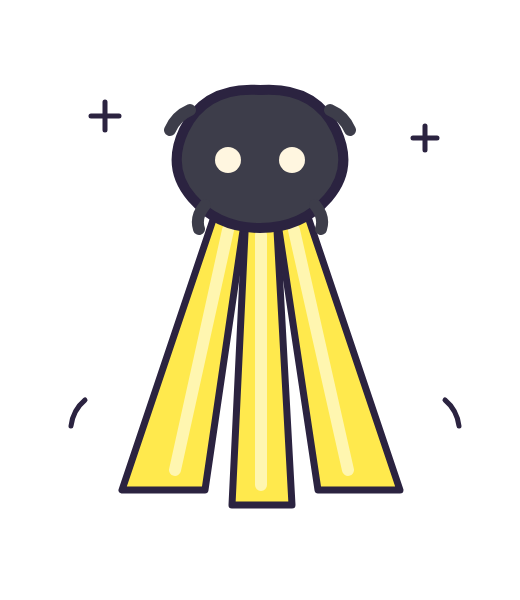
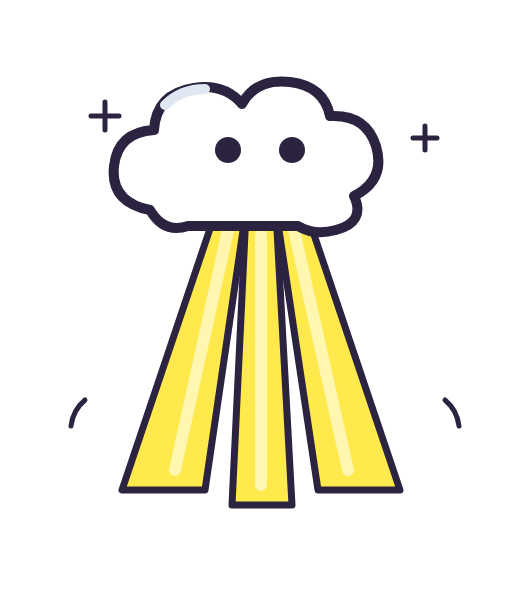
Light final: white fluffy cloud, not a lamp
Claude-Session: https://claude.ai/code/session_01CWYvLNAebJUV9BgoRSz528

Changed region(s): [[0.1846, 0.12, 0.7385, 0.42]]

diff --git a/files/attack-of-the-blobs/README.md b/files/attack-of-the-blobs/README.md
@@ -25,7 +25,7 @@ inventing the missing forms.
 | Gem | round blue blob | pointed faceted diamond | blue crystal (approved, do not change) |
 | Gold | round gold blob | gold bar (approved, do not change) | Gold King — crowned stack; lower bars strain to hold him up |
 | Heart | round pink blob | single pink heart | touching trio with emotions: happy, mad, sad |
-| Light | round yellow blob | beam of light | dark lamp shining three beams |
+| Light | round yellow blob | beam of light | white fluffy cloud shining three beams |
 | Water | droplet circle | big sloshy blob | curling wave |
 | Wind | blue circle | small funnel | cloud tornado |
 
